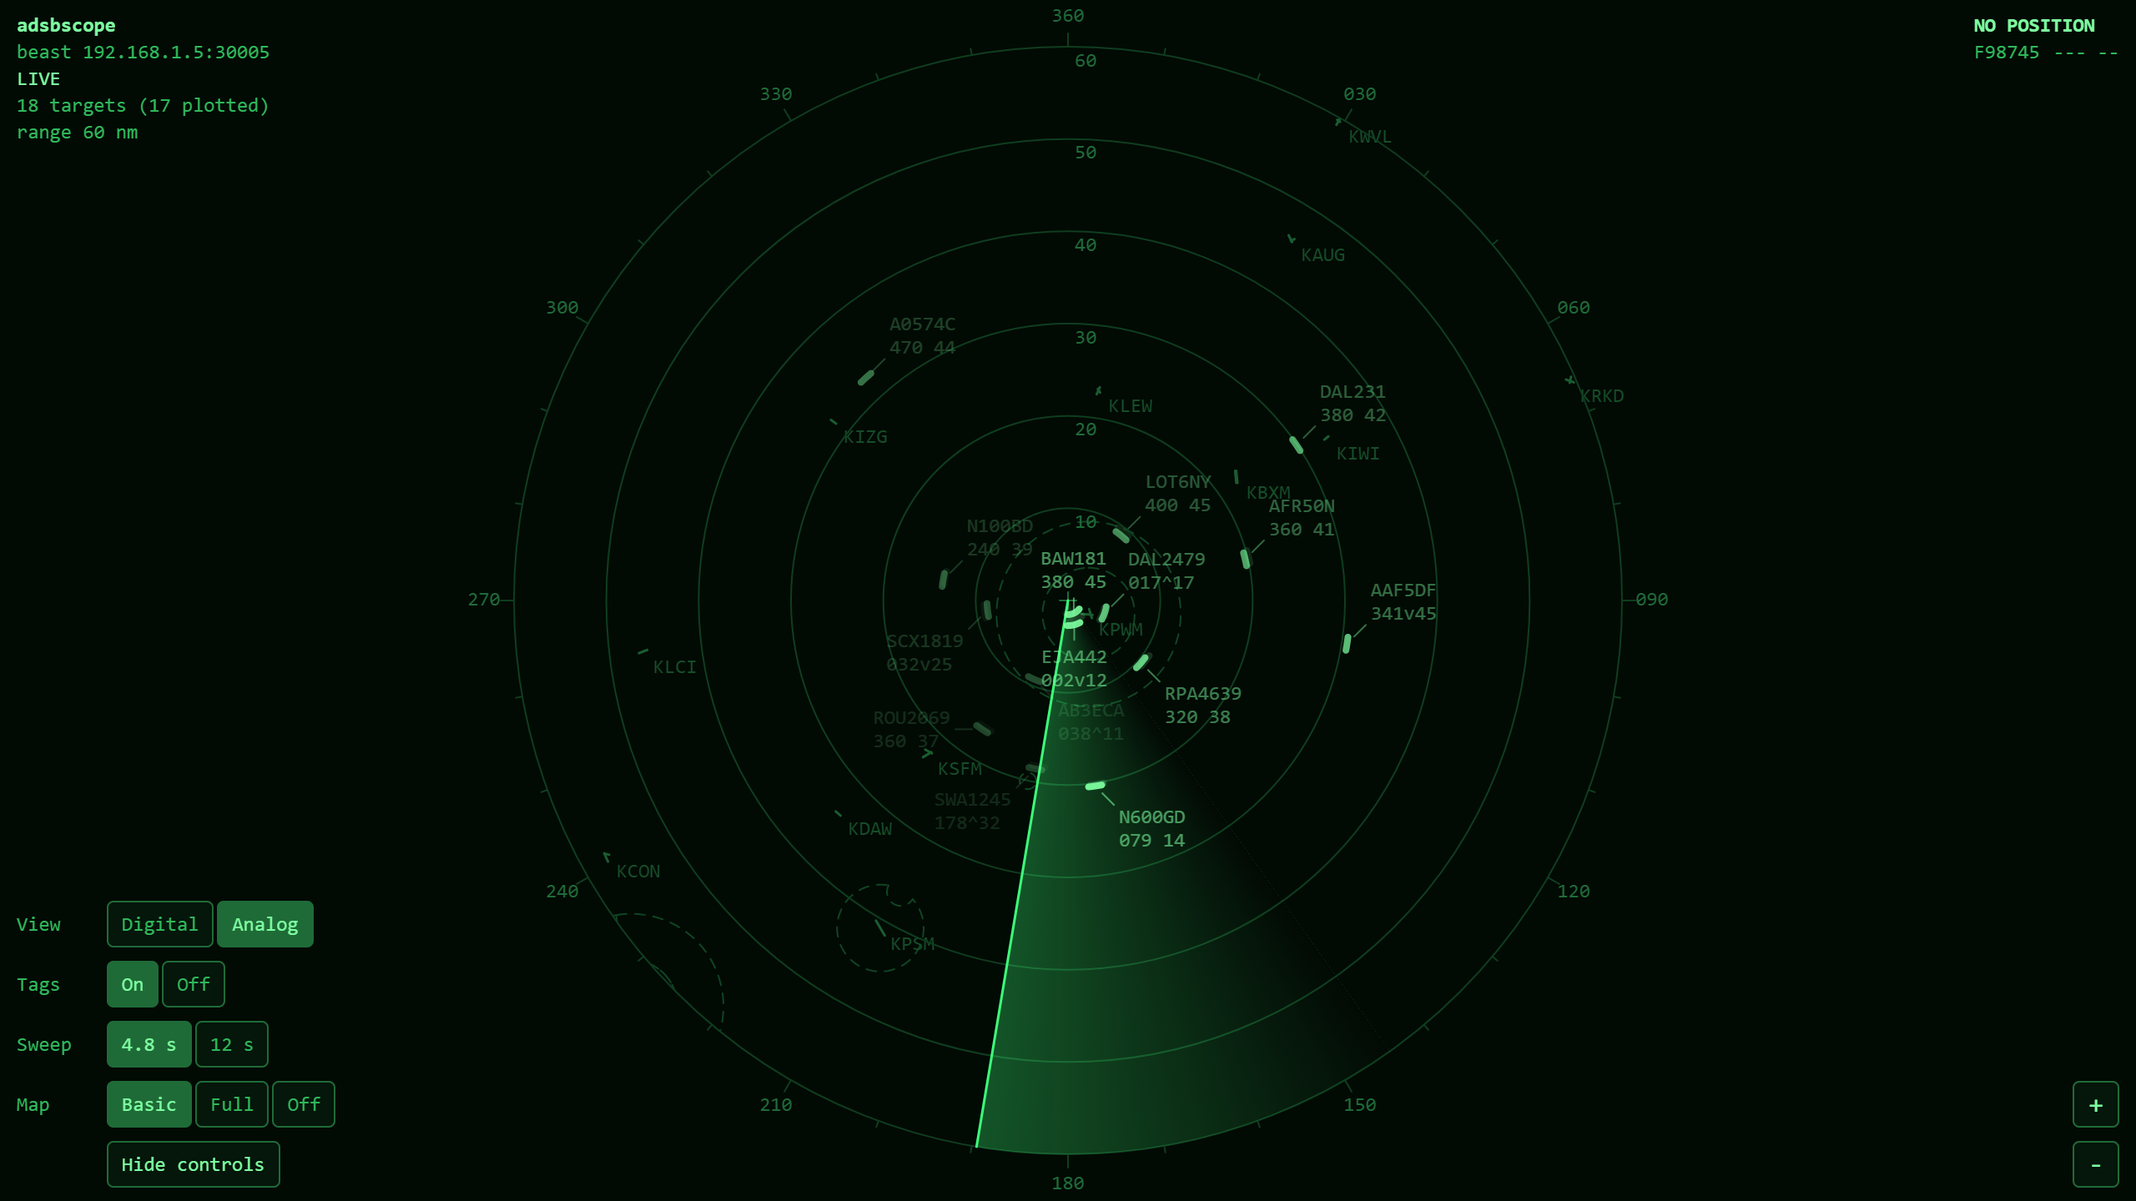
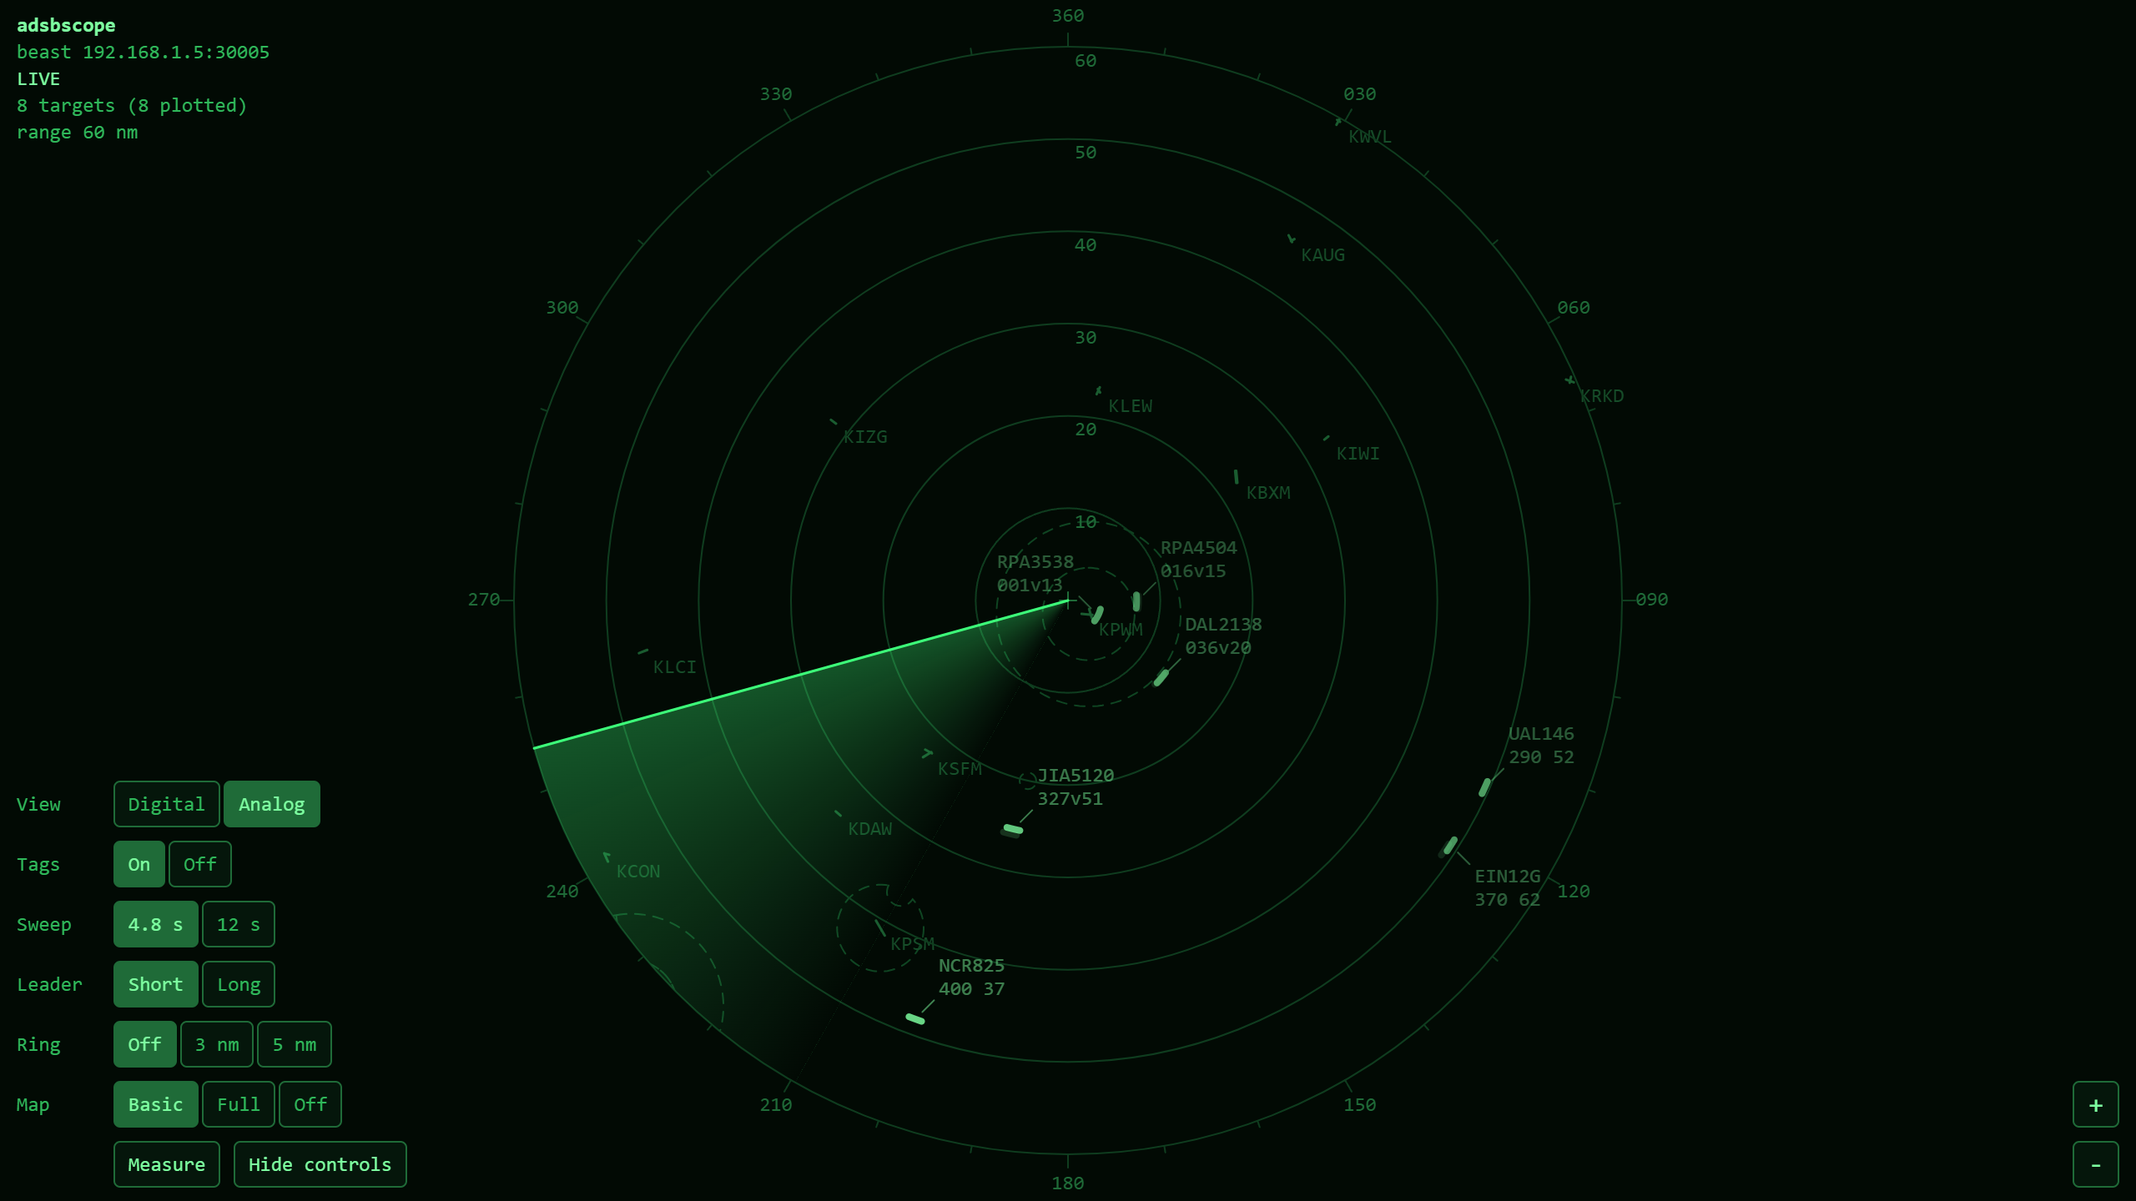
Show Class A on the adsbscope inspect panel and refresh its screenshots

diff --git a/apps/adsbscope/src/server/airspace.spec.ts b/apps/adsbscope/src/server/airspace.spec.ts
@@ -63,6 +63,7 @@ describe('toScopeAirspace', () => {
         feature('WARNING', 'W102L', 'W-102L LOW, MACHIAS, ME'),
         feature('CLASS_B', 'BOS', 'BOSTON CLASS B'),
         feature('NSA', 'NEVERETT', 'EVERETT NSA, WA'),
+        feature('CLASS_A', '', 'CLASS A', 18_000, 60_000),
         feature('ALERT', 'A291C', 'A-291C MIAMI, FL'),
         feature('CLASS_C', 'PWM', 'PORTLAND INTL JETPORT CLASS C'),
         feature('CLASS_D', 'BXM', 'BRUNSWICK EXECUTIVE CLASS D'),
@@ -71,11 +72,21 @@ describe('toScopeAirspace', () => {
       'warning W-102L LOW',
       'alert A-291C MIAMI',
       'nationalSecurity EVERETT NSA',
+      'classA CLASS A',
       'classB BOS',
       'classC PWM',
       'classD BXM',
       'classD NHZ',
     ]);
+  });
+
+  it('reports one Class A for the pieces of adjacent centers, which all share its name', () => {
+    expect(
+      toScopeAirspace([
+        feature('CLASS_A', '', 'CLASS A', 18_000, 60_000),
+        feature('CLASS_A', '', 'CLASS A', 18_000, 60_000),
+      ]),
+    ).toEqual([{ kind: 'classA', name: 'CLASS A' }]);
   });
 
   it('falls back to the name for a class with no airport identifier', () => {
@@ -101,7 +112,7 @@ describe('toScopeAirspace', () => {
 
 describe('isReportedAirspaceType', () => {
   it('accepts the classes and special-use areas the scope reports', () => {
-    for (const type of ['CLASS_B', 'CLASS_D', 'RESTRICTED', 'MOA', 'NSA']) {
+    for (const type of ['CLASS_A', 'CLASS_B', 'CLASS_D', 'RESTRICTED', 'MOA', 'NSA']) {
       expect(isReportedAirspaceType(type)).toBe(true);
     }
   });
@@ -162,6 +173,9 @@ describe('loadBundledAirspace', () => {
     ).toBe(true);
     expect(provider.lookup({ lat: 42.3656, lon: -71.0096 }, 5000)).toEqual([
       { kind: 'classB', name: 'BOS' },
+    ]);
+    expect(provider.lookup({ lat: 42.3656, lon: -71.0096 }, 25_000)).toEqual([
+      { kind: 'classA', name: 'CLASS A' },
     ]);
   }, 30_000);
 

diff --git a/apps/adsbscope/src/ui/hud/inspect-panel-content.ts b/apps/adsbscope/src/ui/hud/inspect-panel-content.ts
@@ -36,7 +36,7 @@ export const LEVEL_FLIGHT_FT_PER_MIN = 100;
 export const SQUAWK_ALERT_NOTE = 'just changed';
 
 /** Shown in the Airspace row for an aircraft in none of the airspace the scope checks. The data cannot tell Class E from G, so the row does not try. */
-export const OUTSIDE_AIRSPACE = 'outside Class B, C, D';
+export const OUTSIDE_AIRSPACE = 'outside Class A, B, C, D';
 
 const MS_PER_SECOND = 1000;
 
@@ -46,6 +46,9 @@ const AIRSPACE_CLASS_LABELS: Readonly<Partial<Record<ScopeAirspaceKind, string>>
   classC: 'Class C',
   classD: 'Class D',
 };
+
+/** How Class A is written in the Airspace row: alone, since it is one block with no airport to name. */
+const CLASS_A_LABEL = 'Class A';
 
 /** How each autopilot mode is written in the Autopilot row, after whether the autopilot is on. */
 const AUTOPILOT_MODE_LABELS: Readonly<Record<ScopeAutopilotMode, string>> = {
@@ -102,6 +105,9 @@ function formatAirspace(airspace: ScopeAirspace[]): string {
   }
   return airspace
     .map((entry) => {
+      if (entry.kind === 'classA') {
+        return CLASS_A_LABEL;
+      }
       const classLabel = AIRSPACE_CLASS_LABELS[entry.kind];
       return classLabel === undefined ? entry.name : `${classLabel} (${entry.name})`;
     })

diff --git a/apps/adsbscope/src/shared/protocol.ts b/apps/adsbscope/src/shared/protocol.ts
@@ -108,7 +108,7 @@ export interface ScopeAutopilot {
 /**
  * The kinds of airspace a target is reported as being inside, in the order
  * they are listed: the special-use areas first, since a restricted area is
- * what matters most, then the tower-controlled classes.
+ * what matters most, then the controlled classes from A down.
  */
 export const SCOPE_AIRSPACE_KINDS = [
   'prohibited',
@@ -117,6 +117,7 @@ export const SCOPE_AIRSPACE_KINDS = [
   'alert',
   'moa',
   'nationalSecurity',
+  'classA',
   'classB',
   'classC',
   'classD',
@@ -129,7 +130,7 @@ export type ScopeAirspaceKind = (typeof SCOPE_AIRSPACE_KINDS)[number];
 export interface ScopeAirspace {
   /** What kind of airspace it is. */
   kind: ScopeAirspaceKind;
-  /** What it is called: the airport identifier of a Class B, C, or D (`BOS`), or the designator and place of a special-use area as charted (`R-4001A BRUNSWICK`). */
+  /** What it is called: the airport identifier of a Class B, C, or D (`BOS`), the designator and place of a special-use area as charted (`R-4001A BRUNSWICK`), or `CLASS A` for Class A, which is one block with no name of its own. */
   name: string;
 }
 

diff --git a/apps/adsbscope/src/ui/scope-view.spec.tsx b/apps/adsbscope/src/ui/scope-view.spec.tsx
@@ -389,6 +389,22 @@ describe('ScopeView', () => {
       expect(window.location.search).toBe('?selected=aaaaaa');
     });
 
+    it('honors a bookmarked selection whatever its case, and takes the spelling the feed uses', () => {
+      window.history.replaceState(null, '', '/?selected=a4ce45');
+      render(<ScopeView config={CONFIG} loadVideoMap={loadVideoMap} />);
+
+      act(() => {
+        FakeEventSource.latest().emitOpen();
+        FakeEventSource.latest().emit(
+          'snapshot',
+          JSON.stringify(makeSnapshot([makeTarget({ icaoHex: 'A4CE45', callsign: 'N409CC' })])),
+        );
+      });
+
+      expect(screen.getByRole('region', { name: INSPECT_PANEL_LABEL })).toHaveTextContent('N409CC');
+      expect(window.location.search).toBe('?selected=A4CE45');
+    });
+
     it('drops a bookmarked selection that names an aircraft no longer there', () => {
       window.history.replaceState(null, '', '/?mode=analog&selected=c0ffee');
       render(<ScopeView config={CONFIG} loadVideoMap={loadVideoMap} />);

diff --git a/apps/adsbscope/src/server/airspace.ts b/apps/adsbscope/src/server/airspace.ts
@@ -48,6 +48,7 @@ export interface AirspaceProvider {
  * boundaries, which every aircraft is always inside one of.
  */
 const KIND_BY_TYPE: Readonly<Partial<Record<AirspaceType, ScopeAirspaceKind>>> = {
+  CLASS_A: 'classA',
   CLASS_B: 'classB',
   CLASS_C: 'classC',
   CLASS_D: 'classD',
@@ -76,7 +77,9 @@ export function isReportedAirspaceType(type: unknown): boolean {
  * Names a feature as the scope shows it. A Class B, C, or D is named by its
  * airport, which is what it is called. A special-use area is named as
  * charted - its designator and place - which the data carries with the state
- * after a comma: `R-4001A BRUNSWICK, ME`.
+ * after a comma: `R-4001A BRUNSWICK, ME`. Class A has no identifier and is
+ * named `CLASS A` in the data, one piece per center, so every piece ends up
+ * with the same name and they collapse to one entry.
  */
 function nameOf(feature: AirspaceFeature, kind: ScopeAirspaceKind): string {
   if (CLASS_KINDS.has(kind) && feature.identifier !== '') {

diff --git a/apps/adsbscope/src/ui/scope/selection.ts b/apps/adsbscope/src/ui/scope/selection.ts
@@ -55,7 +55,9 @@ export function pickTarget(
 }
 
 /**
- * Finds the selected aircraft in a snapshot.
+ * Finds the selected aircraft in a snapshot. The hex is matched in either
+ * case: one picked on the scope is spelled as the feed spells it, while one
+ * from a bookmarked URL is spelled however it was typed.
  *
  * @param snapshot - The most recent snapshot, or undefined before the first one arrives.
  * @param selectedIcaoHex - The ICAO hex of the selected aircraft, if there is one.
@@ -68,7 +70,8 @@ export function findSelectedTarget(
   if (selectedIcaoHex === undefined) {
     return undefined;
   }
-  return snapshot?.targets.find((target) => target.icaoHex === selectedIcaoHex);
+  const wanted = selectedIcaoHex.toLowerCase();
+  return snapshot?.targets.find((target) => target.icaoHex.toLowerCase() === wanted);
 }
 
 /**

diff --git a/apps/adsbscope/src/ui/hud/inspect-panel-content.spec.ts b/apps/adsbscope/src/ui/hud/inspect-panel-content.spec.ts
@@ -84,6 +84,19 @@ describe('buildInspectContent', () => {
     expect(airspaceOf([])).toBe(OUTSIDE_AIRSPACE);
   });
 
+  it('writes Class A alone, since it has no airport to name', () => {
+    const airspaceOf = (airspace: ScopeAirspace[]): string | undefined =>
+      valueOf(buildInspectContent(makeTarget({ airspace }), NOW, undefined), 'Airspace');
+
+    expect(airspaceOf([{ kind: 'classA', name: 'CLASS A' }])).toBe('Class A');
+    expect(
+      airspaceOf([
+        { kind: 'warning', name: 'W-102H HIGH' },
+        { kind: 'classA', name: 'CLASS A' },
+      ]),
+    ).toBe('W-102H HIGH, Class A');
+  });
+
   it('has no airspace row for an aircraft that could not be placed', () => {
     expect(valueOf(buildInspectContent(makeTarget(), NOW, undefined), 'Airspace')).toBeUndefined();
   });

diff --git a/apps/adsbscope/src/ui/scope/selection.spec.ts b/apps/adsbscope/src/ui/scope/selection.spec.ts
@@ -82,6 +82,13 @@ describe('findSelectedTarget', () => {
     expect(findSelectedTarget(makeSnapshot([target]), 'aaaaaa')).toBe(target);
   });
 
+  it('matches the hex in either case, as a bookmarked URL may spell it differently from the feed', () => {
+    const uppercase = makeTarget({ icaoHex: 'A4CE45' });
+
+    expect(findSelectedTarget(makeSnapshot([uppercase]), 'a4ce45')).toBe(uppercase);
+    expect(findSelectedTarget(makeSnapshot([target]), 'AAAAAA')).toBe(target);
+  });
+
   it('finds nothing when nothing is selected, or the aircraft is no longer tracked', () => {
     expect(findSelectedTarget(makeSnapshot([target]), undefined)).toBeUndefined();
     expect(findSelectedTarget(makeSnapshot([target]), 'bbbbbb')).toBeUndefined();

diff --git a/apps/adsbscope/src/ui/scope-view.tsx b/apps/adsbscope/src/ui/scope-view.tsx
@@ -138,6 +138,11 @@ export function ScopeView({
   if (snapshot !== undefined && selectedIcaoHex !== undefined && selectedTarget === undefined) {
     setSelectedIcaoHex(undefined);
   }
+  // A selection from the URL is spelled however it was typed; once a snapshot shows the aircraft,
+  // take the aircraft's own spelling, which is what the renderers match on and the URL then carries.
+  if (selectedTarget !== undefined && selectedTarget.icaoHex !== selectedIcaoHex) {
+    setSelectedIcaoHex(selectedTarget.icaoHex);
+  }
   if (measurement !== undefined && !isMeasurementLive(measurement, snapshot)) {
     setMeasurement(undefined);
   }

diff --git a/apps/adsbscope/README.md b/apps/adsbscope/README.md
@@ -4,7 +4,7 @@
 
 An ATC-style radar scope for live ADS-B traffic, in your browser. `adsbscope` is a small command-line tool: it connects to a local [dump1090-fa](https://github.com/flightaware/dump1090) station through [`@squawk/adsb-feed`](../../packages/libs/adsb-feed), and serves a web page that plots every tracked aircraft on a scope centered on your receiver, over a video map of the airports, runways, navaids, fixes, and airspace around it. The scope has two view styles you can switch between while it runs: a modern **digital** scope with data blocks, and a sweep-era **analog** scope with a rotating beam and fading returns.
 
-![The digital view style: a modern scope with data blocks on leader lines, over a video map of airports and airspace](https://raw.githubusercontent.com/neilcochran/squawk/main/apps/adsbscope/assets/digital.png)
+![The digital view style: a modern scope with data blocks on leader lines, over a video map of airports and airspace, with a selected aircraft written out in the inspect panel](https://raw.githubusercontent.com/neilcochran/squawk/main/apps/adsbscope/assets/digital.png)
 
 ![The analog view style: a rotating beam painting returns that fade behind it, on a green phosphor tube](https://raw.githubusercontent.com/neilcochran/squawk/main/apps/adsbscope/assets/analog.png)
 
@@ -126,7 +126,7 @@ The bundled data covers the United States only, so a receiver elsewhere gets an 
 
 Click or tap an aircraft - its symbol or return, or its data block or tag - to select it. It is ringed on the scope, and a panel in the bottom-right corner writes out what its data block abbreviates or has no room for: ICAO hex, registered model in full, broadcast category, squawk (noting one that has just changed), altitude in feet, the altitude selected on the autopilot, vertical rate, ground speed, indicated and true airspeed, track, magnetic heading, selected heading, whether the autopilot is on and which of its modes are, bearing and range from the receiver, the airspace it is in, and how long ago it was last heard from. Only what the aircraft has actually reported gets a row, so under a source that cannot report something the row is absent rather than reading as off; see [What each source can show](#what-each-source-can-show). The selected heading carries no `true` or `magnetic`, because the broadcast does not say which it is. On a screen too short for every row, the panel stops below the lists in the top corners and scrolls. If the aircraft is in the [registry](#aircraft-models), its registration, make, operator, and year of manufacture are fetched and added a moment later; for an aircraft the registry does not know, or with `--no-registry`, those rows are simply absent.
 
-The airspace row names every Class B, C, or D and every special-use area - restricted, prohibited, warning, and alert areas, MOAs, and national security areas - whose boundary, floor, and ceiling contain the aircraft, special-use first: `R-4001A BRUNSWICK, Class D (NHZ)`. It is resolved from the same bundled data as the [video map](#video-map), but against the aircraft's altitude as well as its position, which the drawn boundary cannot show: a Class B's floors step up with distance from the airport, and the row says whether an aircraft at 4,500 ft is under a shelf or in it. The altitude is the barometric one when the aircraft reports it, otherwise the geometric one. An aircraft in none of them reads `outside Class B, C, and D`; the data cannot tell Class E from G, so the row does not try. An aircraft with no altitude cannot be placed and has no row. The data covers the United States only, so elsewhere every aircraft reads as outside, and if it cannot be loaded, `adsbscope` says so once and carries on without the row.
+The airspace row names Class A, every Class B, C, or D, and every special-use area - restricted, prohibited, warning, and alert areas, MOAs, and national security areas - whose boundary, floor, and ceiling contain the aircraft, special-use first: `W-102H HIGH, Class A` for an airliner at cruise off the coast, `R-4001A BRUNSWICK, Class D (NHZ)` lower down. It is resolved from the same bundled data as the [video map](#video-map), but against the aircraft's altitude as well as its position, which the drawn boundary cannot show: a Class B's floors step up with distance from the airport, and the row says whether an aircraft at 4,500 ft is under a shelf or in it. Class A is 18,000 ft MSL to FL600 over the contiguous states, Alaska, and Puerto Rico and their adjacent offshore airspace; there is none over Hawaii. The altitude is the barometric one when the aircraft reports it, otherwise the geometric one. An aircraft in none of them reads `outside Class A, B, C, D`; the data cannot tell Class E from G, so the row does not try. An aircraft with no altitude cannot be placed and has no row. The data covers the United States only, so elsewhere every aircraft reads as outside, and if it cannot be loaded, `adsbscope` says so once and carries on without the row.
 
 Click empty scope, press `Esc` (which first clears a [range/bearing line](#measuring), if there is one), or use the panel's close button to clear the selection. `.` and `,` step forwards and backwards through every tracked aircraft in order of callsign, which is also the only way to select one that has no position and so is not on the scope. The selection is kept when you switch view styles, and is dropped when the aircraft stops being tracked: a selection always names an aircraft that is actually there.
 
@@ -142,9 +142,9 @@ The `Measure` button under the selectors, or `B`, starts a range/bearing line, f
 
 ### Bookmarking a view
 
-The view style, the range, and the selected aircraft are kept in the page's URL as you change them - `?mode=analog&range=40&selected=a4ce45` - so a view can be bookmarked or shared, and a reload comes back to it. Whatever matches what the command line asked for is left out, so an untouched scope keeps a clean URL. The URL is rewritten in place, without adding to the browser's history.
+The view style, the range, and the selected aircraft are kept in the page's URL as you change them - `?mode=analog&range=40&selected=A4CE45` - so a view can be bookmarked or shared, and a reload comes back to it. Whatever matches what the command line asked for is left out, so an untouched scope keeps a clean URL. The URL is rewritten in place, without adding to the browser's history.
 
-On load the URL wins over `--mode` and `--range`. It is validated as strictly as the flags are: a view style the scope does not have, a range that is not a positive number up to 500 nm, or a selection that is not a six-digit ICAO hex is ignored and tidied out of the URL. A selection is only honored once a snapshot shows the aircraft is being tracked, so a bookmark from another day - naming an aircraft that is long gone - opens with nothing selected and drops the parameter, rather than claiming a selection that is not there. Each view style's own settings are not part of the URL.
+On load the URL wins over `--mode` and `--range`. It is validated as strictly as the flags are: a view style the scope does not have, a range that is not a positive number up to 500 nm, or a selection that is not a six-digit ICAO hex is ignored and tidied out of the URL. The hex is accepted in either case. A selection is only honored once a snapshot shows the aircraft is being tracked, so a bookmark from another day - naming an aircraft that is long gone - opens with nothing selected and drops the parameter, rather than claiming a selection that is not there. Each view style's own settings are not part of the URL.
 
 ### Emergencies
 

diff --git a/.changeset/adsbscope-class-a.md b/.changeset/adsbscope-class-a.md
@@ -1,0 +1,11 @@
+---
+'@squawk/adsbscope': minor
+---
+
+### Added
+
+- The inspect panel's `Airspace` row names Class A, which the bundled airspace data now carries: an aircraft at or above 18,000 ft MSL over the contiguous states, Alaska, or Puerto Rico reads `Class A`, after any special-use area it is also in (`W-102H HIGH, Class A`). An aircraft in none of the reported airspace now reads `outside Class A, B, C, D`.
+
+### Fixed
+
+- A bookmarked selection (`?selected=<hex>`) is honored again on reload. The URL's hex was lowercased on the way in while every feed spells hexes in uppercase, so the aircraft was never found and the selection was dropped on the first snapshot. The hex is now matched in either case, and the URL takes the aircraft's own spelling once it is found.
